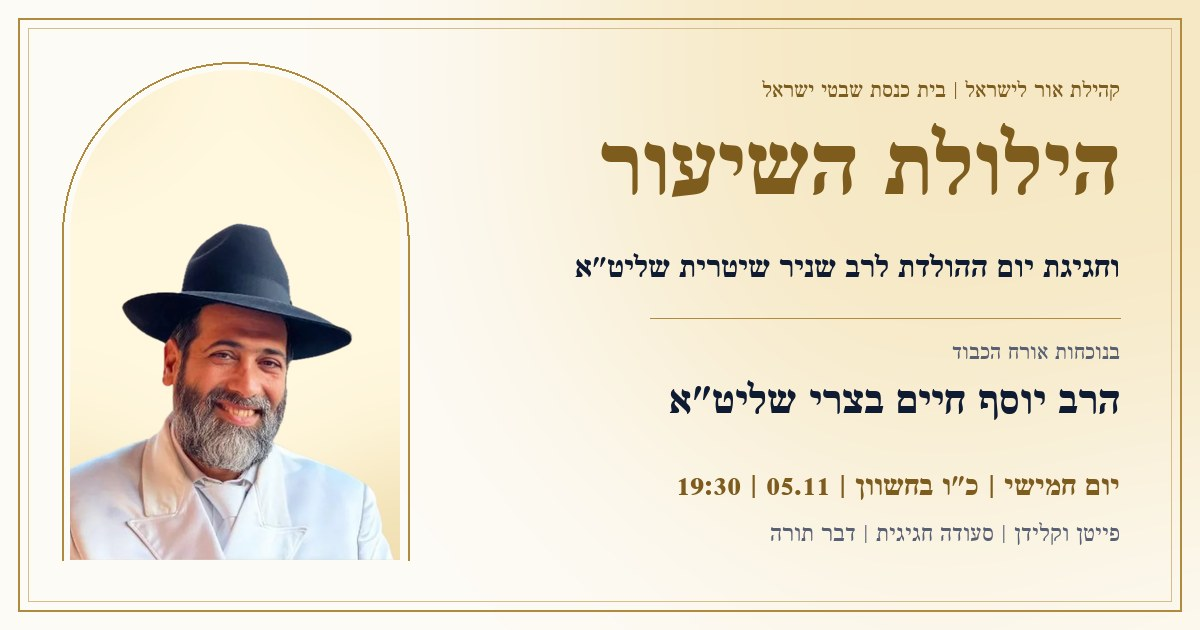
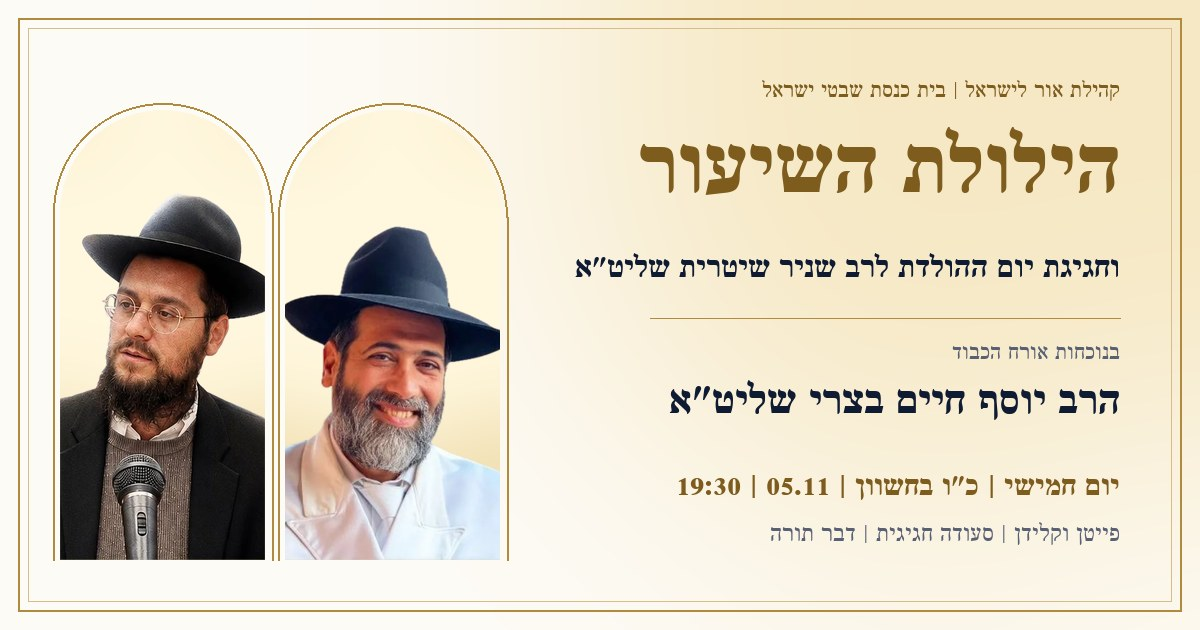
Add Rav Snir portrait; preview image with both rabbis

diff --git a/index.html b/index.html
@@ -9,7 +9,7 @@
 <meta property="og:title" content="הילולת השיעור · וחגיגת יום ההולדת לרב שניר שיטרית">
 <meta property="og:description" content="בנוכחות הרב יוסף חיים בצרי שליט״א · יום חמישי כ״ו בחשוון · 05.11 · 19:30 · בית כנסת שבטי ישראל">
 <meta property="og:url" content="https://or-leyisrael.github.io/">
-<meta property="og:image" content="https://or-leyisrael.github.io/media/og.jpg">
+<meta property="og:image" content="https://or-leyisrael.github.io/media/og.jpg?v=2">
 <meta property="og:image:width" content="1200">
 <meta property="og:image:height" content="630">
 <meta name="twitter:card" content="summary_large_image">
@@ -128,6 +128,14 @@ section{margin-top:56px}
 .more h4{font-size:20px}
 .more span{font-size:14px;color:var(--ink-mute);text-align:left}
 
+/* hero portrait of Rav Snir */
+.arch.arch-sm{width:min(200px,56%);margin:22px auto 0}
+.arch-sm::after{height:55%}
+.arch-sm .arch-in{aspect-ratio:3/5}
+.arch-in img.fit{width:91%;left:9%;transform:none;
+  -webkit-mask-image:linear-gradient(to left,transparent 0,#000 7%),linear-gradient(180deg,#000 80%,transparent 100%);-webkit-mask-composite:source-in;
+  mask-image:linear-gradient(to left,transparent 0,#000 7%),linear-gradient(180deg,#000 80%,transparent 100%);mask-composite:intersect}
+
 /* guest of honour: arched window portrait */
 .honour{text-align:center}
 .honour > .caps{display:block}
@@ -242,6 +250,7 @@ footer .btn{margin-top:22px}
       <div class="bsd">בס״ד</div>
       <div class="caps rise">קהילת אור לישראל · בית כנסת שבטי ישראל</div>
       <h1 class="title foil rise d1">הילולת השיעור</h1>
+      <div class="arch arch-sm rise d2"><div class="arch-in"><img class="fit" src="media/snir.webp" alt="הרב שניר שיטרית שליט״א" width="305" height="548"></div></div>
       <p class="sub rise d2">וחגיגת יום ההולדת<br>לרב <b>שניר שיטרית</b><small>שליט״א</small></p>
 
       <div class="rule rise d3" aria-hidden="true"><svg><use href="#lozenge"/></svg></div>
